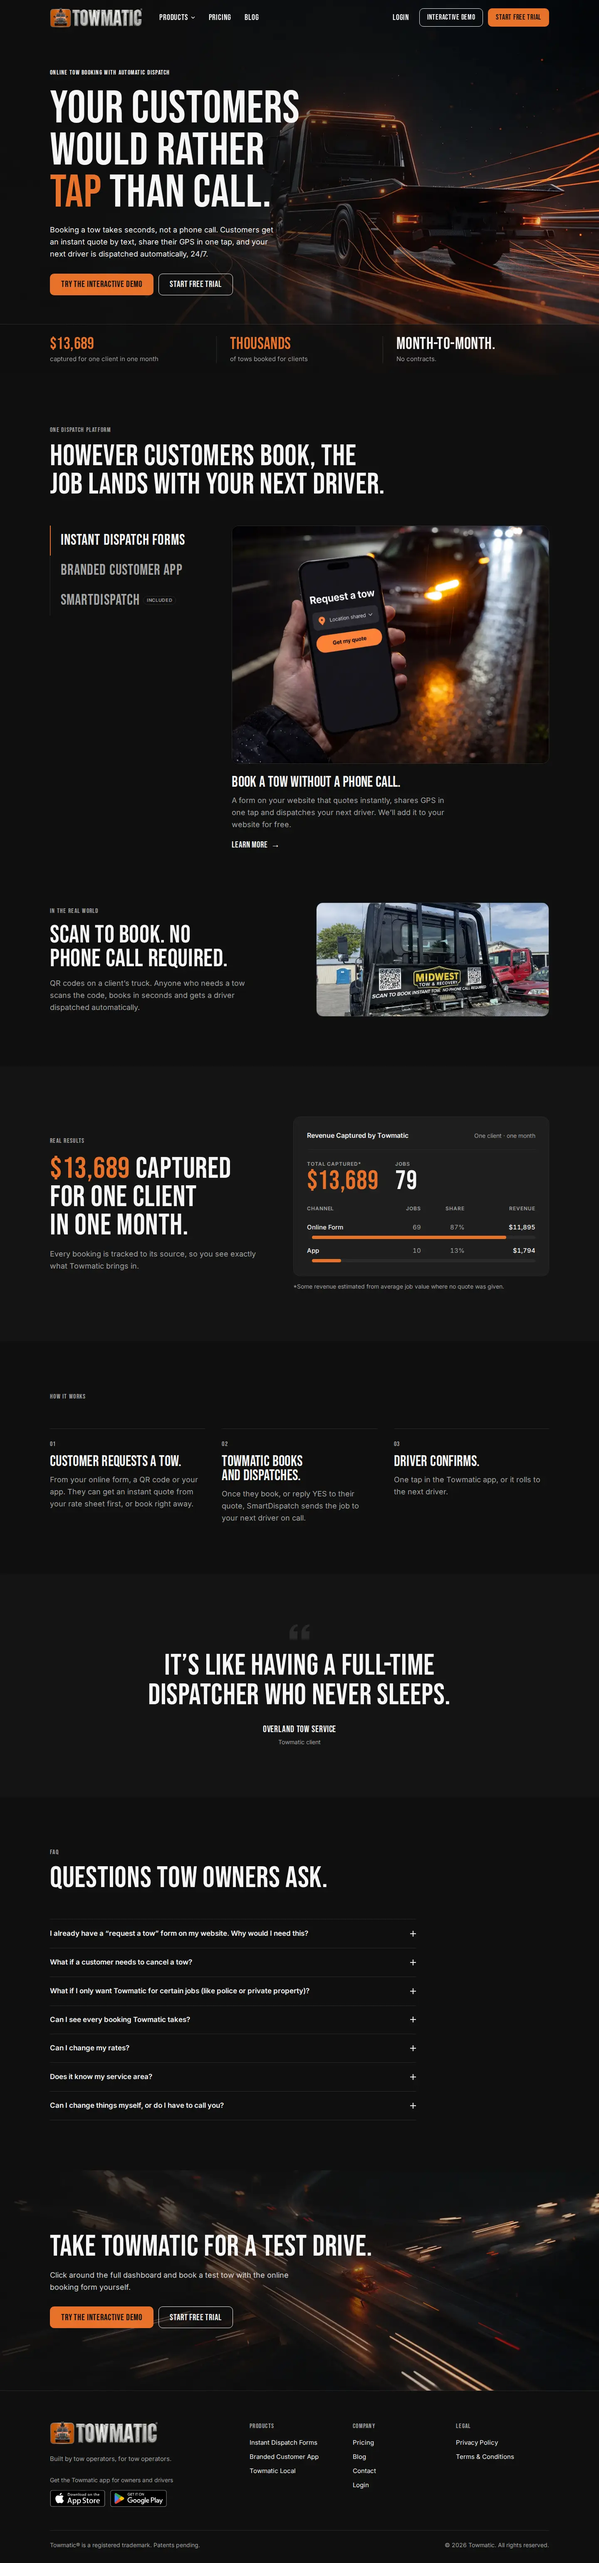
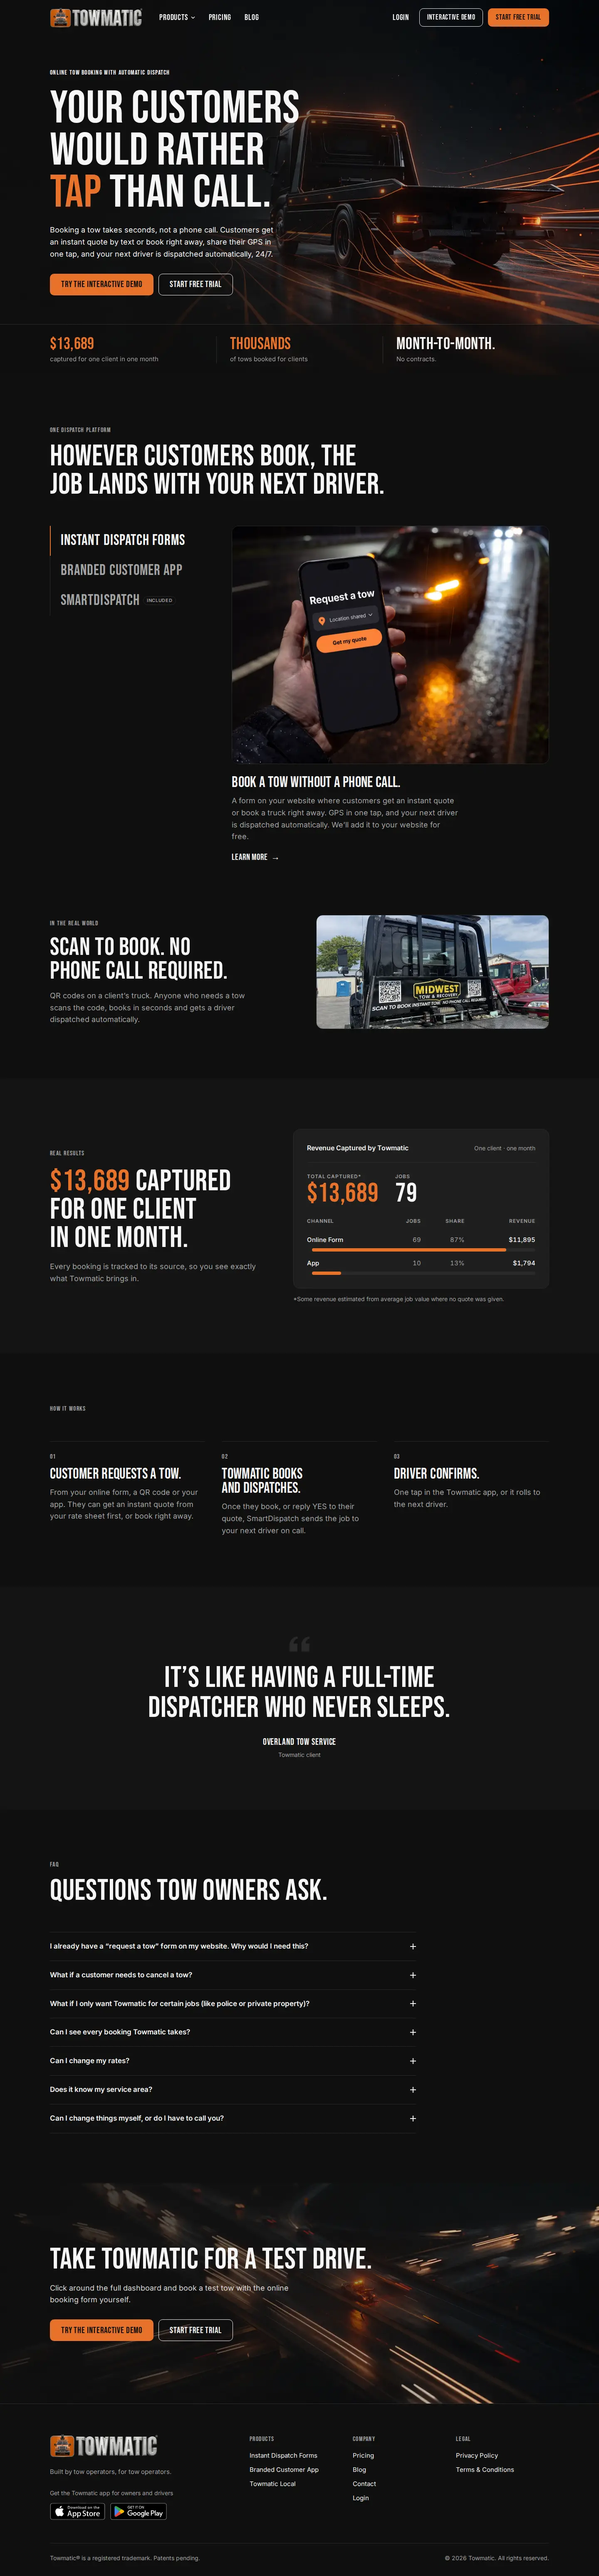
Make clear quotes are optional: forms can quote first or dispatch right away
Claude-Session: https://claude.ai/code/session_01QozjXnkBDgD25Ken8NMvP1

diff --git a/website-no-voice/web-forms.html b/website-no-voice/web-forms.html
@@ -29,7 +29,7 @@
       "name": "I already have a “request a tow” form on my website. Why would I need this?",
       "acceptedAnswer": {
         "@type": "Answer",
-        "text": "Ask yourself two questions: Is someone watching it 24/7? And does it send the job straight to a driver? Most website forms just send an email to an inbox. The request sits there until someone checks it, and by then the customer has already called the next tow company. An Instant Dispatch Form quotes the customer from your rate sheet, gets their exact location and dispatches your next driver in seconds, any time of day, with nobody watching it. If your form doesn’t do that, it’s costing you tows and service calls."
+        "text": "Ask yourself two questions: Is someone watching it 24/7? And does it send the job straight to a driver? Most website forms just send an email to an inbox. The request sits there until someone checks it, and by then the customer has already called the next tow company. An Instant Dispatch Form gets the customer’s exact location and dispatches your next driver in seconds, with an instant quote from your rate sheet first if they want one. Any time of day, with nobody watching it. If your form doesn’t do that, it’s costing you tows and service calls."
       }
     },
     {
@@ -37,7 +37,7 @@
       "name": "How does the customer get a quote?",
       "acceptedAnswer": {
         "@type": "Answer",
-        "text": "SmartQuote prices the job from your real rate sheet, and the quote is texted to the customer automatically. Your driver is dispatched only after the customer replies YES."
+        "text": "SmartQuote prices the job from your real rate sheet, and the quote is texted to the customer automatically. Your driver is dispatched only after the customer replies YES. Customers who’d rather skip the quote can use the book-now version of the ASAP Tow, ASAP Service or Scheduled form, which dispatches right away."
       }
     },
     {
@@ -189,7 +189,7 @@
     <div class="container hero__content">
       <p class="eyebrow hero__eyebrow reveal">Instant Dispatch Forms</p>
       <h1 class="hero__title hero__title--page reveal" id="page-title">Let customers book a tow without calling.</h1>
-      <p class="hero__sub reveal">A form on your website that quotes instantly, shares GPS in one tap and dispatches your next driver.</p>
+      <p class="hero__sub reveal">A form on your website where customers get an instant quote or book a truck right away. GPS in one tap, and your next driver is dispatched automatically.</p>
       <div class="btn-row reveal">
         <a class="btn btn--primary" href="/demo">Try the Interactive Demo</a>
         <a class="btn btn--secondary" href="/signup">Start Free Trial</a>
@@ -203,7 +203,7 @@
       <div class="feature__copy reveal">
         <p class="eyebrow">Instant quotes</p>
         <h2 class="feature__title" id="f1-title">Quoted by text. Dispatched on YES.</h2>
-        <p class="feature__line">The quote is priced from your rate sheet and texted to the customer automatically. Your driver is dispatched only after the customer replies YES.</p>
+        <p class="feature__line">The quote is priced from your rate sheet and texted to the customer automatically. Your driver is dispatched only after the customer replies YES. Customers who just want a truck on the way can skip the quote and book now.</p>
       </div>
       <div class="feature__visual reveal">
         <img class="shot shot--phone" src="images/wf-quote.webp" alt="Text message thread: Your Tow Co. texts a $212 tow quote, the customer replies YES, and the driver is confirmed on the way" width="1000" height="1010" loading="lazy" decoding="async">
@@ -262,7 +262,7 @@
           <h3 class="vs__title">Towmatic Instant Dispatch Form</h3>
           <dl class="vs__list">
             <div><dt>Where it goes</dt><dd>Straight to your next driver</dd></div>
-            <div><dt>The quote</dt><dd>Instant quote by text from your rate sheet</dd></div>
+            <div><dt>The quote</dt><dd>An instant quote by text, or skip it and dispatch now</dd></div>
             <div><dt>The location</dt><dd>Exact GPS in one tap</dd></div>
             <div><dt>At 2 AM</dt><dd>Dispatched in seconds</dd></div>
             <div><dt>The result</dt><dd>A booked job</dd></div>
@@ -288,7 +288,7 @@
         <li>Police Calls</li>
         <li>Motor Club</li>
       </ul>
-      <p class="type-note reveal">Use the ones you need and share each one where it fits. Every form quotes from your rate sheet and dispatches your next driver automatically.</p>
+      <p class="type-note reveal">Use the ones you need and share each one where it fits. ASAP Tow, ASAP Service and Scheduled each come in two versions: quote first, or dispatch right away.</p>
     </div>
   </section>
 
@@ -314,7 +314,7 @@
         <li class="step reveal">
           <span class="step__num" aria-hidden="true">03</span>
           <h3 class="step__title">We add it for you.</h3>
-          <p class="step__text">Every booking from your site is quoted and dispatched to your next driver automatically.</p>
+          <p class="step__text">Every booking from your site is dispatched to your next driver automatically.</p>
         </li>
       </ol>
     </div>
@@ -353,11 +353,11 @@
           <summary>I already have a “request a tow” form on my website. Why would I need this?</summary>
           <p>Ask yourself two questions: Is someone watching it 24/7? And does it send the job straight to a driver?</p>
           <p>Most website forms just send an email to an inbox. The request sits there until someone checks it, and by then the customer has already called the next tow company.</p>
-          <p>An Instant Dispatch Form quotes the customer from your rate sheet, gets their exact location and dispatches your next driver in seconds, any time of day, with nobody watching it. If your form doesn’t do that, it’s costing you tows and service calls.</p>
+          <p>An Instant Dispatch Form gets the customer’s exact location and dispatches your next driver in seconds, with an instant quote from your rate sheet first if they want one. Any time of day, with nobody watching it. If your form doesn’t do that, it’s costing you tows and service calls.</p>
         </details>
         <details class="faq__item">
           <summary>How does the customer get a quote?</summary>
-          <p>SmartQuote prices the job from your real rate sheet, and the quote is texted to the customer automatically. Your driver is dispatched only after the customer replies YES.</p>
+          <p>SmartQuote prices the job from your real rate sheet, and the quote is texted to the customer automatically. Your driver is dispatched only after the customer replies YES. Customers who’d rather skip the quote can use the book-now version of the ASAP Tow, ASAP Service or Scheduled form, which dispatches right away.</p>
         </details>
         <details class="faq__item">
           <summary>How does SmartLocate work?</summary>

diff --git a/website/web-forms.html b/website/web-forms.html
@@ -29,7 +29,7 @@
       "name": "I already have a “request a tow” form on my website. Why would I need this?",
       "acceptedAnswer": {
         "@type": "Answer",
-        "text": "Ask yourself two questions: Is someone watching it 24/7? And does it send the job straight to a driver? Most website forms just send an email to an inbox. The request sits there until someone checks it, and by then the customer has already called the next tow company. An Instant Dispatch Form quotes the customer from your rate sheet, gets their exact location and dispatches your next driver in seconds, any time of day, with nobody watching it. If your form doesn’t do that, it’s costing you tows and service calls."
+        "text": "Ask yourself two questions: Is someone watching it 24/7? And does it send the job straight to a driver? Most website forms just send an email to an inbox. The request sits there until someone checks it, and by then the customer has already called the next tow company. An Instant Dispatch Form gets the customer’s exact location and dispatches your next driver in seconds, with an instant quote from your rate sheet first if they want one. Any time of day, with nobody watching it. If your form doesn’t do that, it’s costing you tows and service calls."
       }
     },
     {
@@ -37,7 +37,7 @@
       "name": "How does the customer get a quote?",
       "acceptedAnswer": {
         "@type": "Answer",
-        "text": "SmartQuote prices the job from your real rate sheet, and the quote is texted to the customer automatically. Your driver is dispatched only after the customer replies YES."
+        "text": "SmartQuote prices the job from your real rate sheet, and the quote is texted to the customer automatically. Your driver is dispatched only after the customer replies YES. Customers who’d rather skip the quote can use the book-now version of the ASAP Tow, ASAP Service or Scheduled form, which dispatches right away."
       }
     },
     {
@@ -190,7 +190,7 @@
     <div class="container hero__content">
       <p class="eyebrow hero__eyebrow reveal">Instant Dispatch Forms</p>
       <h1 class="hero__title hero__title--page reveal" id="page-title">Let customers book a tow without calling.</h1>
-      <p class="hero__sub reveal">A form on your website that quotes instantly, shares GPS in one tap and dispatches your next driver.</p>
+      <p class="hero__sub reveal">A form on your website where customers get an instant quote or book a truck right away. GPS in one tap, and your next driver is dispatched automatically.</p>
       <div class="btn-row reveal">
         <a class="btn btn--primary" href="/demo">Try the Interactive Demo</a>
         <a class="btn btn--secondary" href="/signup">Start Free Trial</a>
@@ -204,7 +204,7 @@
       <div class="feature__copy reveal">
         <p class="eyebrow">Instant quotes</p>
         <h2 class="feature__title" id="f1-title">Quoted by text. Dispatched on YES.</h2>
-        <p class="feature__line">The quote is priced from your rate sheet and texted to the customer automatically. Your driver is dispatched only after the customer replies YES.</p>
+        <p class="feature__line">The quote is priced from your rate sheet and texted to the customer automatically. Your driver is dispatched only after the customer replies YES. Customers who just want a truck on the way can skip the quote and book now.</p>
       </div>
       <div class="feature__visual reveal">
         <img class="shot shot--phone" src="images/wf-quote.webp" alt="Text message thread: Your Tow Co. texts a $212 tow quote, the customer replies YES, and the driver is confirmed on the way" width="1000" height="1010" loading="lazy" decoding="async">
@@ -263,7 +263,7 @@
           <h3 class="vs__title">Towmatic Instant Dispatch Form</h3>
           <dl class="vs__list">
             <div><dt>Where it goes</dt><dd>Straight to your next driver</dd></div>
-            <div><dt>The quote</dt><dd>Instant quote by text from your rate sheet</dd></div>
+            <div><dt>The quote</dt><dd>An instant quote by text, or skip it and dispatch now</dd></div>
             <div><dt>The location</dt><dd>Exact GPS in one tap</dd></div>
             <div><dt>At 2 AM</dt><dd>Dispatched in seconds</dd></div>
             <div><dt>The result</dt><dd>A booked job</dd></div>
@@ -301,11 +301,11 @@
           <summary>I already have a “request a tow” form on my website. Why would I need this?</summary>
           <p>Ask yourself two questions: Is someone watching it 24/7? And does it send the job straight to a driver?</p>
           <p>Most website forms just send an email to an inbox. The request sits there until someone checks it, and by then the customer has already called the next tow company.</p>
-          <p>An Instant Dispatch Form quotes the customer from your rate sheet, gets their exact location and dispatches your next driver in seconds, any time of day, with nobody watching it. If your form doesn’t do that, it’s costing you tows and service calls.</p>
+          <p>An Instant Dispatch Form gets the customer’s exact location and dispatches your next driver in seconds, with an instant quote from your rate sheet first if they want one. Any time of day, with nobody watching it. If your form doesn’t do that, it’s costing you tows and service calls.</p>
         </details>
         <details class="faq__item">
           <summary>How does the customer get a quote?</summary>
-          <p>SmartQuote prices the job from your real rate sheet, and the quote is texted to the customer automatically. Your driver is dispatched only after the customer replies YES.</p>
+          <p>SmartQuote prices the job from your real rate sheet, and the quote is texted to the customer automatically. Your driver is dispatched only after the customer replies YES. Customers who’d rather skip the quote can use the book-now version of the ASAP Tow, ASAP Service or Scheduled form, which dispatches right away.</p>
         </details>
         <details class="faq__item">
           <summary>How does SmartLocate work?</summary>

diff --git a/website-no-voice/index.html b/website-no-voice/index.html
@@ -89,7 +89,7 @@
       "name": "I already have a “request a tow” form on my website. Why would I need this?",
       "acceptedAnswer": {
         "@type": "Answer",
-        "text": "Ask yourself two questions: Is someone watching it 24/7? And does it send the job straight to a driver? Most website forms just send an email to an inbox. The request sits there until someone checks it, and by then the customer has already called the next tow company. An Instant Dispatch Form quotes the customer from your rate sheet, gets their exact location and dispatches your next driver in seconds, any time of day, with nobody watching it. If your form doesn’t do that, it’s costing you tows and service calls."
+        "text": "Ask yourself two questions: Is someone watching it 24/7? And does it send the job straight to a driver? Most website forms just send an email to an inbox. The request sits there until someone checks it, and by then the customer has already called the next tow company. An Instant Dispatch Form gets the customer’s exact location and dispatches your next driver in seconds, with an instant quote from your rate sheet first if they want one. Any time of day, with nobody watching it. If your form doesn’t do that, it’s costing you tows and service calls."
       }
     },
     {
@@ -258,7 +258,7 @@
         <span class="hero__line">would rather</span>
         <span class="hero__line"><span class="accent">tap</span> than call.</span>
       </h1>
-      <p class="hero__sub reveal">Booking a tow takes seconds, not a phone call. Customers get an instant quote by text, share their GPS in one tap, and your next driver is dispatched automatically, 24/7.</p>
+      <p class="hero__sub reveal">Booking a tow takes seconds, not a phone call. Customers get an instant quote by text or book right away, share their GPS in one tap, and your next driver is dispatched automatically, 24/7.</p>
       <div class="btn-row reveal">
         <a class="btn btn--primary" href="/demo">Try the Interactive Demo</a>
         <a class="btn btn--secondary" href="/signup">Start Free Trial</a>
@@ -296,7 +296,7 @@
           </div>
           <div class="platform__copy">
             <h3 class="platform__headline">Book a tow without a phone call.</h3>
-            <p class="platform__line">A form on your website that quotes instantly, shares GPS in one tap and dispatches your next driver. We’ll add it to your website for free.</p>
+            <p class="platform__line">A form on your website where customers get an instant quote or book a truck right away. GPS in one tap, and your next driver is dispatched automatically. We’ll add it to your website for free.</p>
             <div class="platform__links"><a class="link-more" href="web-forms.html">Learn more <span aria-hidden="true">→</span></a></div>
           </div>
         </div>
@@ -427,7 +427,7 @@
           <summary>I already have a “request a tow” form on my website. Why would I need this?</summary>
           <p>Ask yourself two questions: Is someone watching it 24/7? And does it send the job straight to a driver?</p>
           <p>Most website forms just send an email to an inbox. The request sits there until someone checks it, and by then the customer has already called the next tow company.</p>
-          <p>An Instant Dispatch Form quotes the customer from your rate sheet, gets their exact location and dispatches your next driver in seconds, any time of day, with nobody watching it. If your form doesn’t do that, it’s costing you tows and service calls.</p>
+          <p>An Instant Dispatch Form gets the customer’s exact location and dispatches your next driver in seconds, with an instant quote from your rate sheet first if they want one. Any time of day, with nobody watching it. If your form doesn’t do that, it’s costing you tows and service calls.</p>
         </details>
         <details class="faq__item">
           <summary>What if a customer needs to cancel a tow?</summary>

diff --git a/website/index.html b/website/index.html
@@ -99,7 +99,7 @@
       "name": "I already have a “request a tow” form on my website. Why would I need this?",
       "acceptedAnswer": {
         "@type": "Answer",
-        "text": "Ask yourself two questions: Is someone watching it 24/7? And does it send the job straight to a driver? Most website forms just send an email to an inbox. The request sits there until someone checks it, and by then the customer has already called the next tow company. An Instant Dispatch Form quotes the customer from your rate sheet, gets their exact location and dispatches your next driver in seconds, any time of day, with nobody watching it. If your form doesn’t do that, it’s costing you tows and service calls."
+        "text": "Ask yourself two questions: Is someone watching it 24/7? And does it send the job straight to a driver? Most website forms just send an email to an inbox. The request sits there until someone checks it, and by then the customer has already called the next tow company. An Instant Dispatch Form gets the customer’s exact location and dispatches your next driver in seconds, with an instant quote from your rate sheet first if they want one. Any time of day, with nobody watching it. If your form doesn’t do that, it’s costing you tows and service calls."
       }
     },
     {
@@ -341,7 +341,7 @@
           </div>
           <div class="platform__copy">
             <h3 class="platform__headline">Book a tow without a phone call.</h3>
-            <p class="platform__line">A form on your website that quotes instantly, shares GPS in one tap and dispatches your next driver.</p>
+            <p class="platform__line">A form on your website where customers get an instant quote or book a truck right away. GPS in one tap, and your next driver is dispatched automatically.</p>
             <div class="platform__links"><a class="link-more" href="web-forms.html">Learn more <span aria-hidden="true">→</span></a></div>
           </div>
         </div>
@@ -460,7 +460,7 @@
           <summary>I already have a “request a tow” form on my website. Why would I need this?</summary>
           <p>Ask yourself two questions: Is someone watching it 24/7? And does it send the job straight to a driver?</p>
           <p>Most website forms just send an email to an inbox. The request sits there until someone checks it, and by then the customer has already called the next tow company.</p>
-          <p>An Instant Dispatch Form quotes the customer from your rate sheet, gets their exact location and dispatches your next driver in seconds, any time of day, with nobody watching it. If your form doesn’t do that, it’s costing you tows and service calls.</p>
+          <p>An Instant Dispatch Form gets the customer’s exact location and dispatches your next driver in seconds, with an instant quote from your rate sheet first if they want one. Any time of day, with nobody watching it. If your form doesn’t do that, it’s costing you tows and service calls.</p>
         </details>
         <details class="faq__item">
           <summary>What if a customer calls to cancel a tow?</summary>

diff --git a/website-no-voice/HANDOFF.md b/website-no-voice/HANDOFF.md
@@ -285,6 +285,9 @@ These are intentional. Build them as shown in the prototype.
 
 - **No "live the same day" claim** for Instant Dispatch Forms anywhere (removed at the owner's request).
 - **Start Free Trial** buttons go to `/signup`.
+- **Quotes are optional on the forms.** ASAP Tow, ASAP Service and Scheduled each come in two versions: quote first
+  (dispatched when the customer replies YES) or book now (dispatched right away, no quote). Never write that every
+  form or every booking is quoted.
 - **"I already have a form on my website" objection** is answered in two places: a comparison section on the Web
   Forms page ("Already have a form?" / "Most website forms just send an email.": a typical website form vs the
   Towmatic Instant Dispatch Form, five rows that line up across both cards on desktop and stack on phones), and the

diff --git a/website/HANDOFF.md b/website/HANDOFF.md
@@ -279,6 +279,9 @@ These are intentional. Build them as shown in the prototype.
 
 - **No "live the same day" claim** for Instant Dispatch Forms anywhere (removed at the owner's request).
 - **Start Free Trial** buttons go to `/signup`.
+- **Quotes are optional on the forms.** ASAP Tow, ASAP Service and Scheduled each come in two versions: quote first
+  (dispatched when the customer replies YES) or book now (dispatched right away, no quote). Never write that every
+  form or every booking is quoted.
 - **"I already have a form on my website" objection** is answered in two places: a comparison section on the Web
   Forms page ("Already have a form?" / "Most website forms just send an email.": a typical website form vs the
   Towmatic Instant Dispatch Form, five rows that line up across both cards on desktop and stack on phones), and the
